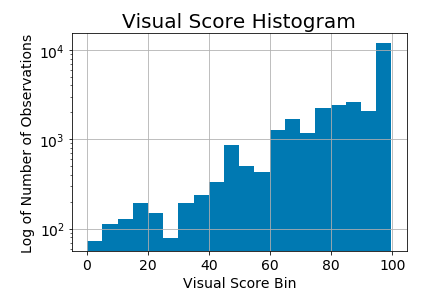
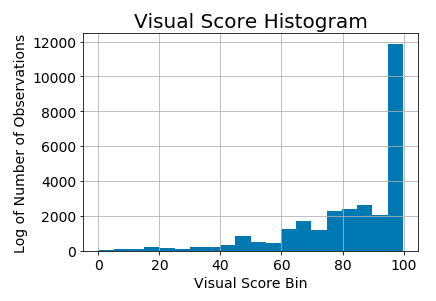
Always be committing

Changed region(s): [[0.0303, 0.0299, 0.9697, 0.9568]]

diff --git a/README.md b/README.md
@@ -28,9 +28,33 @@ The above pipeline was decided upon after much trial and error with Zillow API a
 
 With the limits of Attom's 30 free trial including a 4000 hit/day limit, it will take about 20 days to cover all of these properties. 
 
-Selenium in Action:
+### Selenium In Action
 ![](/images/selenium_demo.gif)
 
+# The Data:
+* Betterview: Categorical roof features (such as existing damage, patching, ponding, etc) and visual score
 
+The Visual Scores for the ~85,000 properties appears to be exponentially distributed:
 
 ![](/images/visual_score_hist.png)
+
+And again but with a log scale on the Y Axis:
+
+![](/images/visual_score_hist_log.png)
+
+# Hypothesis
+As alluded to previously, the theory is that when a property has a lower Visual Score due to problems with its roof, this will correlate to selling prices that are lower than expected. 
+
+Stated mathematically:
+
+Where 	E = realtor estimate
+		V = visual score
+		S = sales price
+        82 = mean of visual scores for this sample
+        
+             (S - E)/STD(S's)   -   (V - MEAN(V's))/STDEV(V's)      =    0 
+
+Testing of this hypothesis would be performed using Welch's t Test for comparing two samples.
+
+
+
